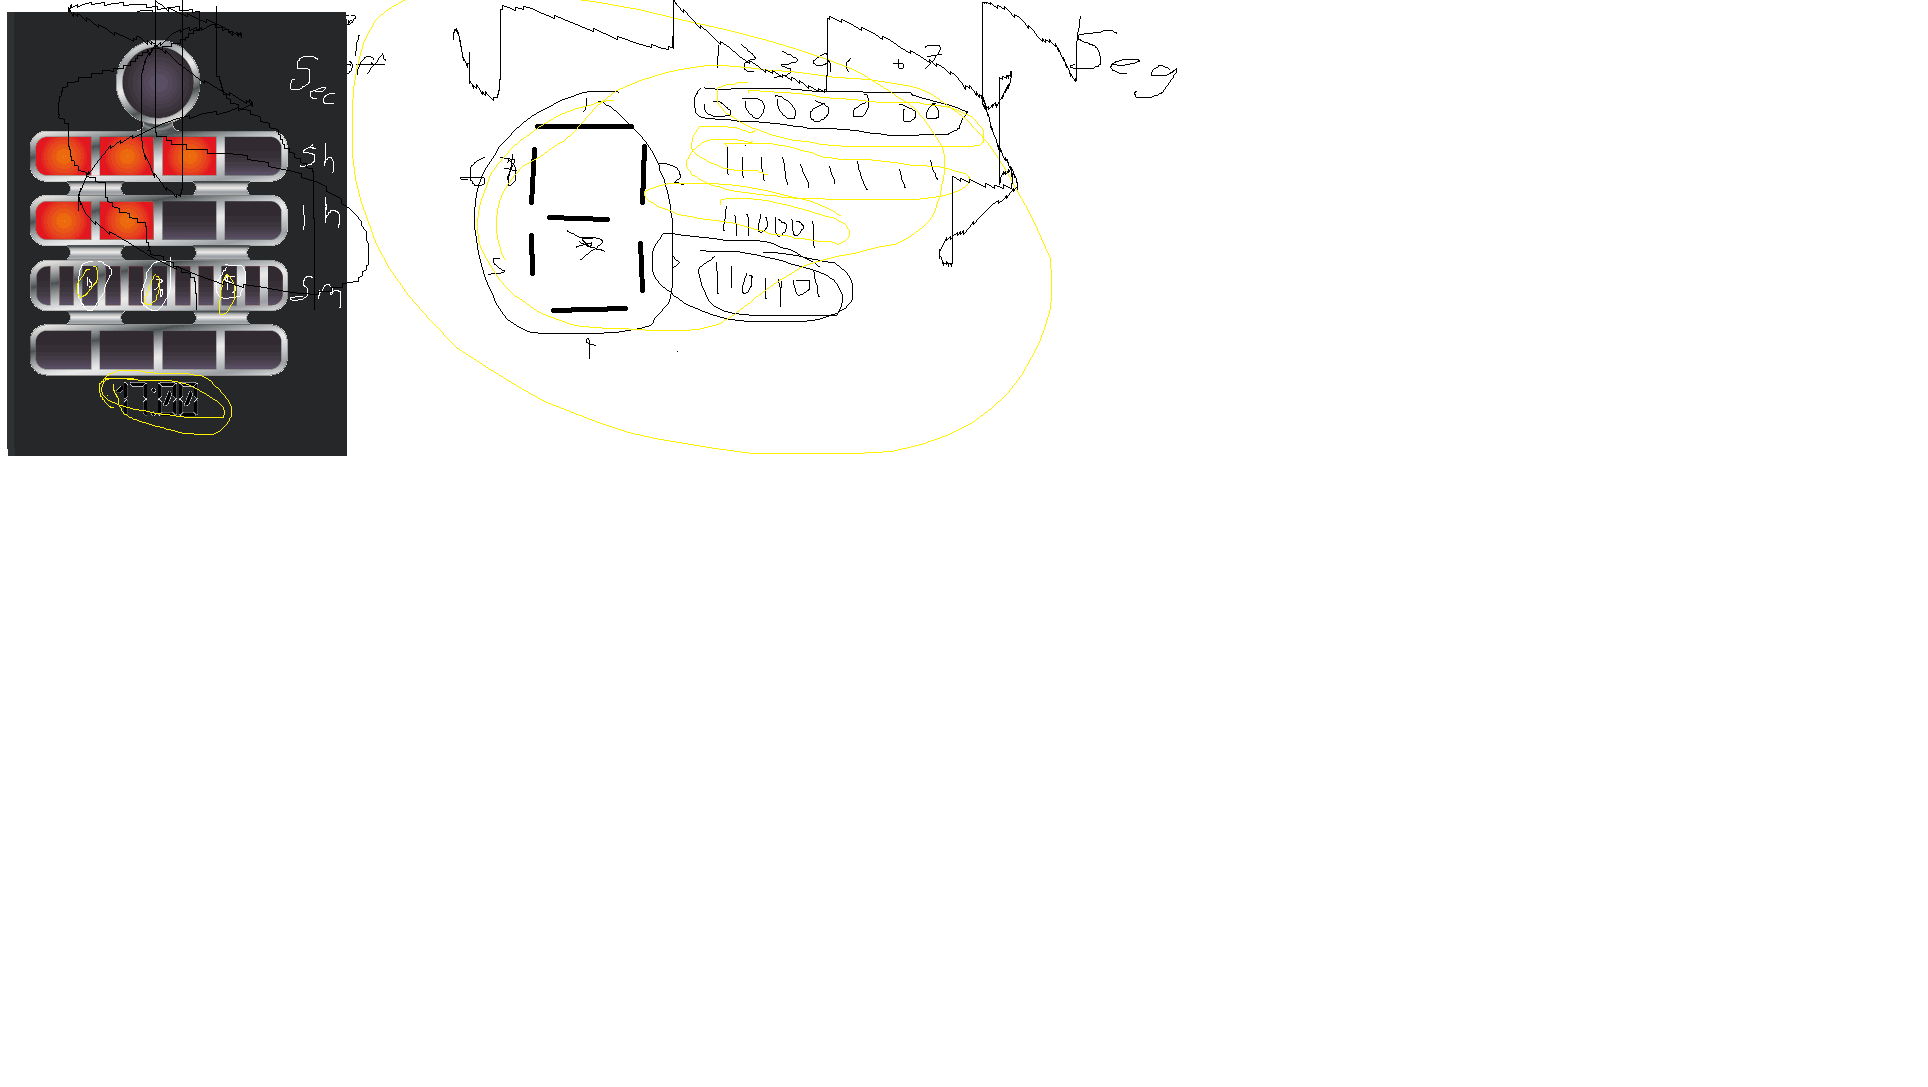
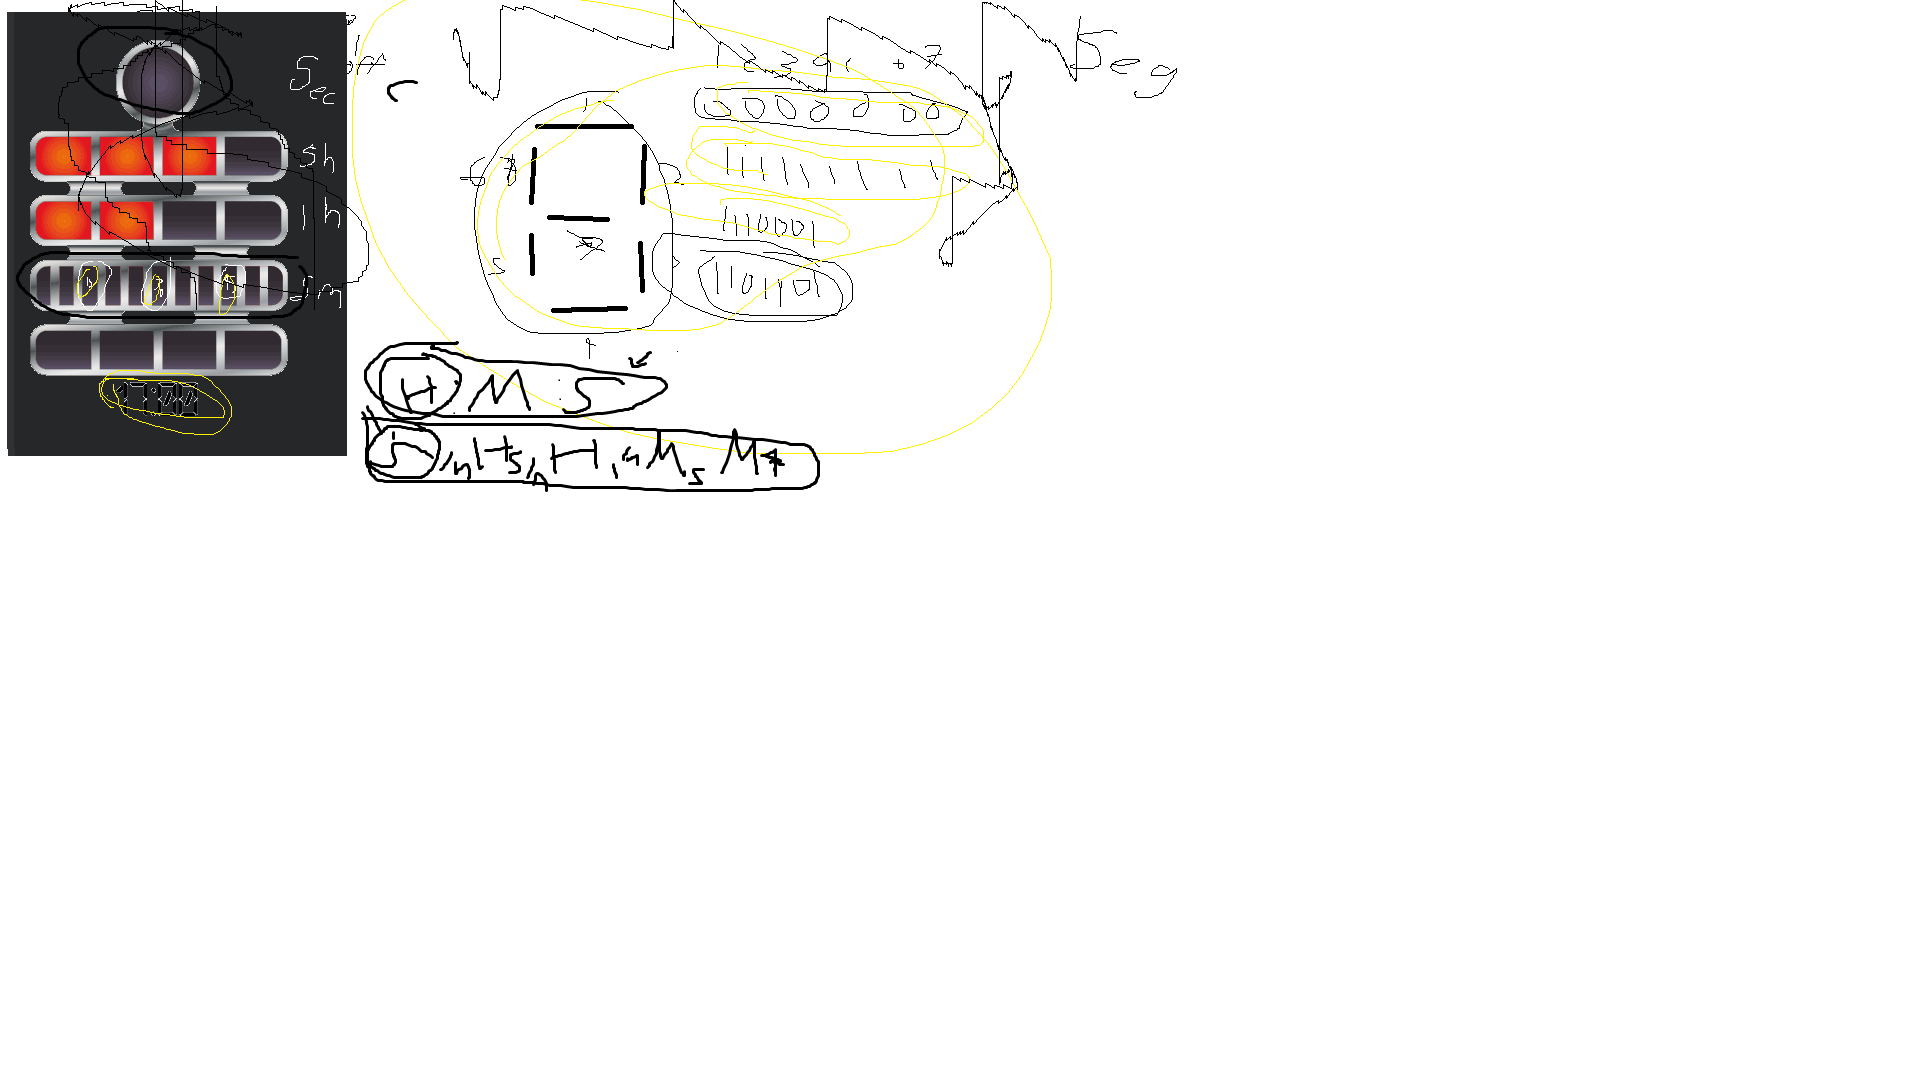
Commit We have a (turned off) clock!

Changed region(s): [[0.1867, 0.3036, 0.4357, 0.4554]]

diff --git a/tests/berlintest.test.js b/tests/berlintest.test.js
@@ -10,6 +10,16 @@ const {berlinClock} =require ('../berlinClock.js')
 // });
 
 //Test 3 Que podemos recibir y leer hora natural en 3 variables
+// it('should accept the correct 24h formatted input', () => {
+//     expect(berlinClock('23:52:35')).toBe('235235');
+// });
+
+//Test 4 Imprimir el reloj entero apagado, vaya, crear el reloj
 it('should accept the correct 24h formatted input', () => {
-    expect(berlinClock('23:52:35')).toBe('235235');
+    expect(berlinClock('23:52:35')).toBe("O\nOOOO\nOOOO\nOOOOOOOOOOO\nOOOO");
 });
+
+// //Test 5 Que podemos recibir y leer hora natural en 3 variables
+// it('should accept the correct 24h formatted input', () => {
+//     expect(berlinClock('23:52:35')).toBe('O');
+// });

diff --git a/berlinClock.js b/berlinClock.js
@@ -5,10 +5,20 @@ exports.berlinClock = (time) => {
   var rHours=time[0]+time[1]; //Receipt Hours from time
   var rMinutes=time[3]+time[4]; //Receipt Minutes from time
   var rSeconds=time[6]+time[7]; //Receipt Seconds from time
-  var panel='';
- panel=rHours+rMinutes+rSeconds;
+  
+  var oneSecondBulbPanel='O';
+  var fiveHourBulbPanel='OOOO';
+  var oneHourBulbPanel='OOOO';
+  var fiveMinBulbPanel='OOOOOOOOOOO';
+  var oneMinBulbPanel='OOOO';
 
-  return panel;
+  //secondsPanel=rSeconds
+
+  var berlinClock=oneSecondBulbPanel+'\n'+fiveHourBulbPanel+'\n'+oneHourBulbPanel+'\n'+fiveMinBulbPanel+'\n'+oneMinBulbPanel;
+  var testPanel='';
+  testPanel=berlinClock;
+
+  return testPanel;
   
 }
 

diff --git a/Notes.md b/Notes.md
@@ -1,6 +1,15 @@
 pomodoro 1 18:17 - 18:42 - 18:47    test1 y test 2
 pomodoro 2 18:47 - 19:12 - 19:17    test 3
+pomodoro 3 19:17 - 19:42
 
 Tenemos que poder leer cadenas cómo lo necesitamos, en la posición que necesitamos para los valores naturales de segundos, minutos y horas
 
 Ya que leamos hora natural, sigue empezar a dividir los bloques de la hora en los focos de los paneles
+-bloques de hora - Hora - Min- Seg
+
+Como el entregable final es S+H5+H1+M5+M1 , podemos establecer los objetivos en ese orden:
+Goal Berlin clock, compuesto de 'paneles' primero lo imprimiremos apagado, como si lo hubieramos creado.
+
+Goal Segundos: Como nuestro (TRADUCTOR) a reloj de Berlin no muestra la cantidad de segundos, sólo si es par o impar , nos enfocaremos en obtener y mostrar eso.
+    Obtener si es par o impar. 
+    Mostrar el resultado en una cadena.
